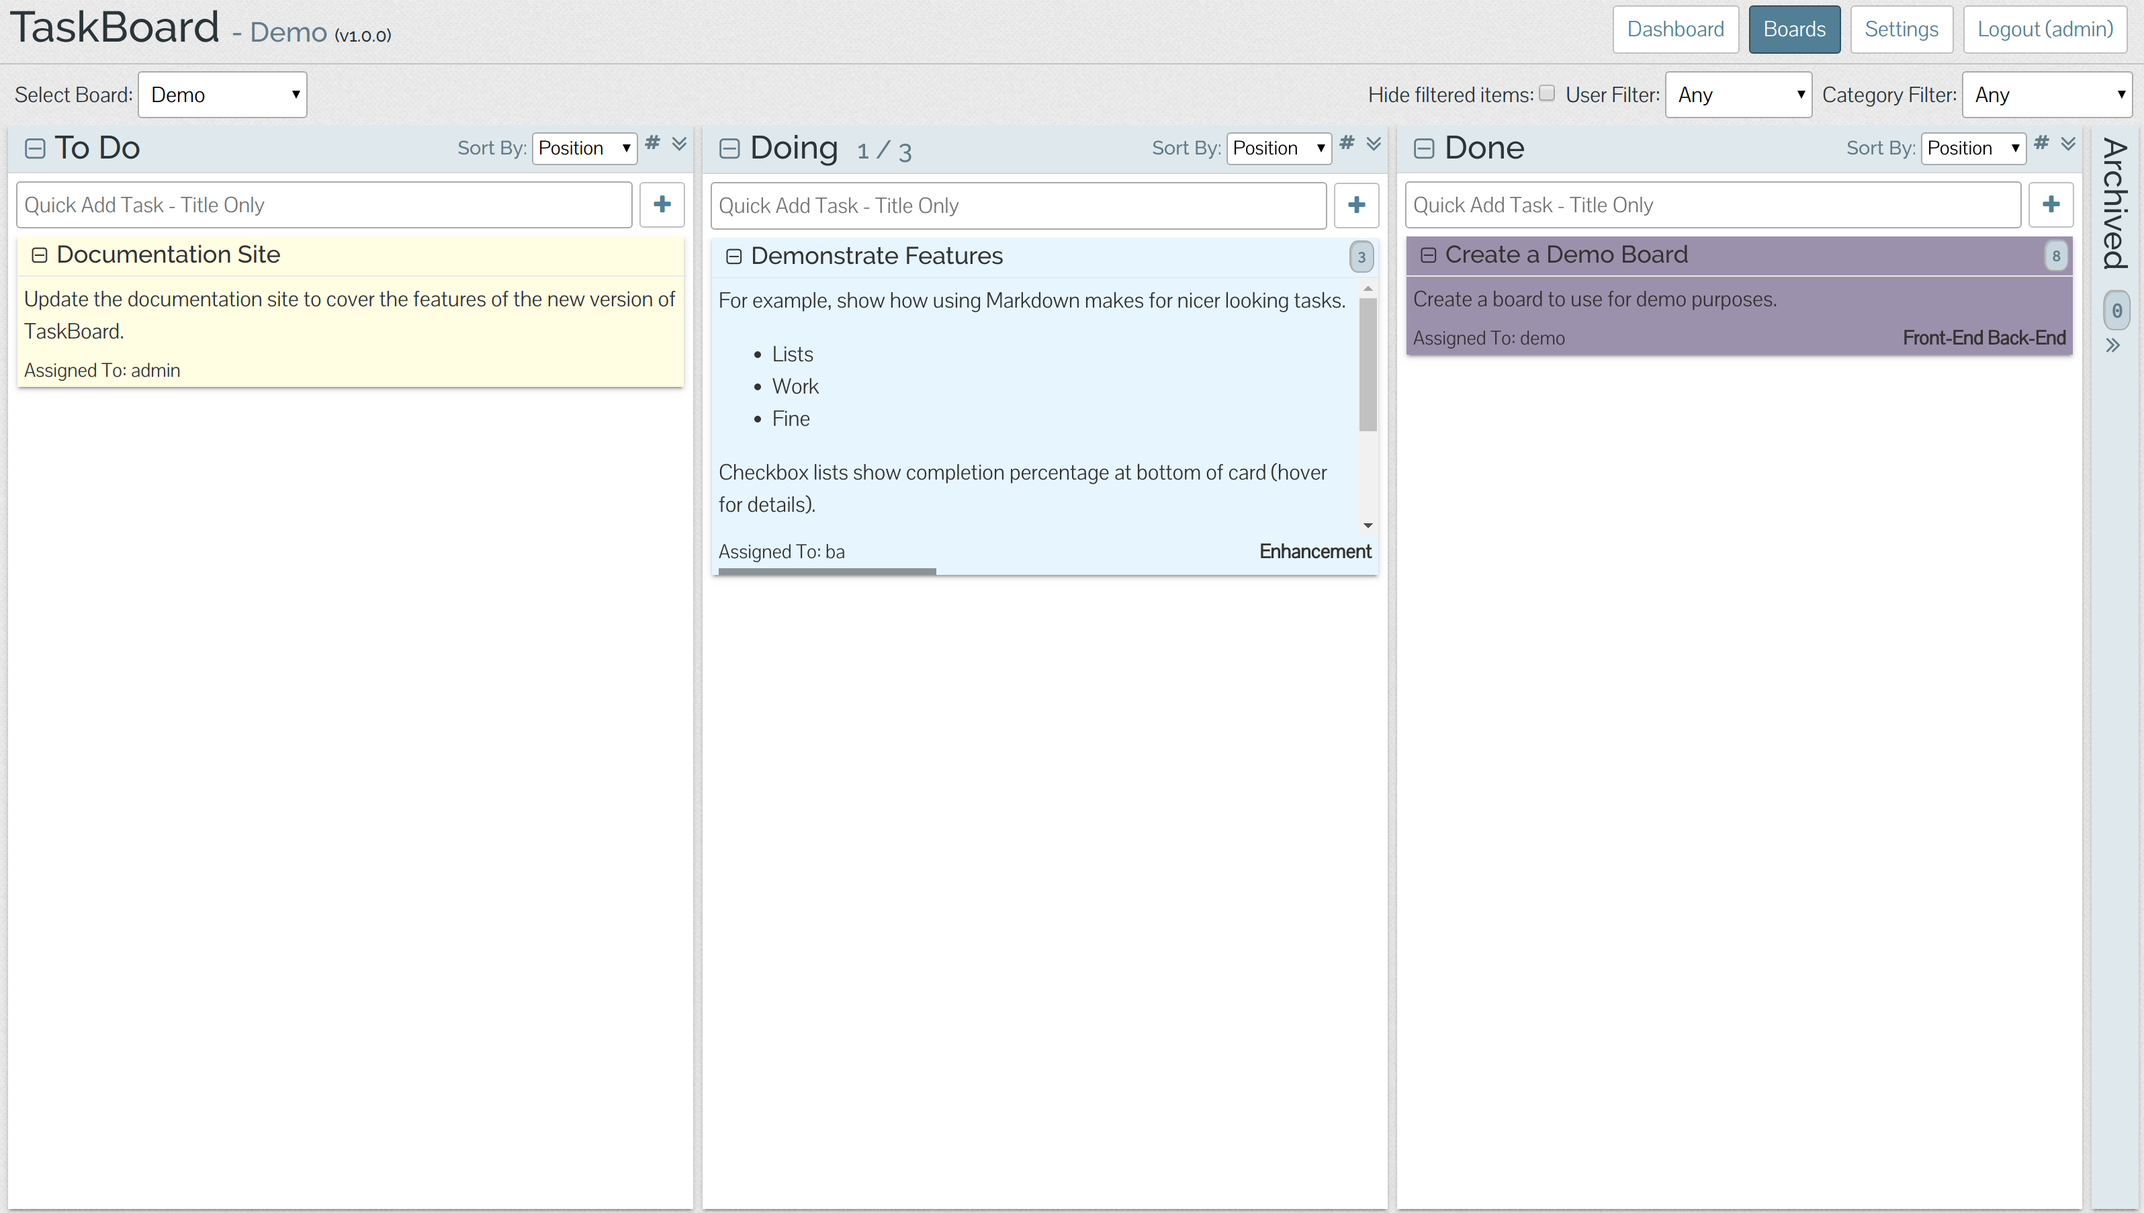
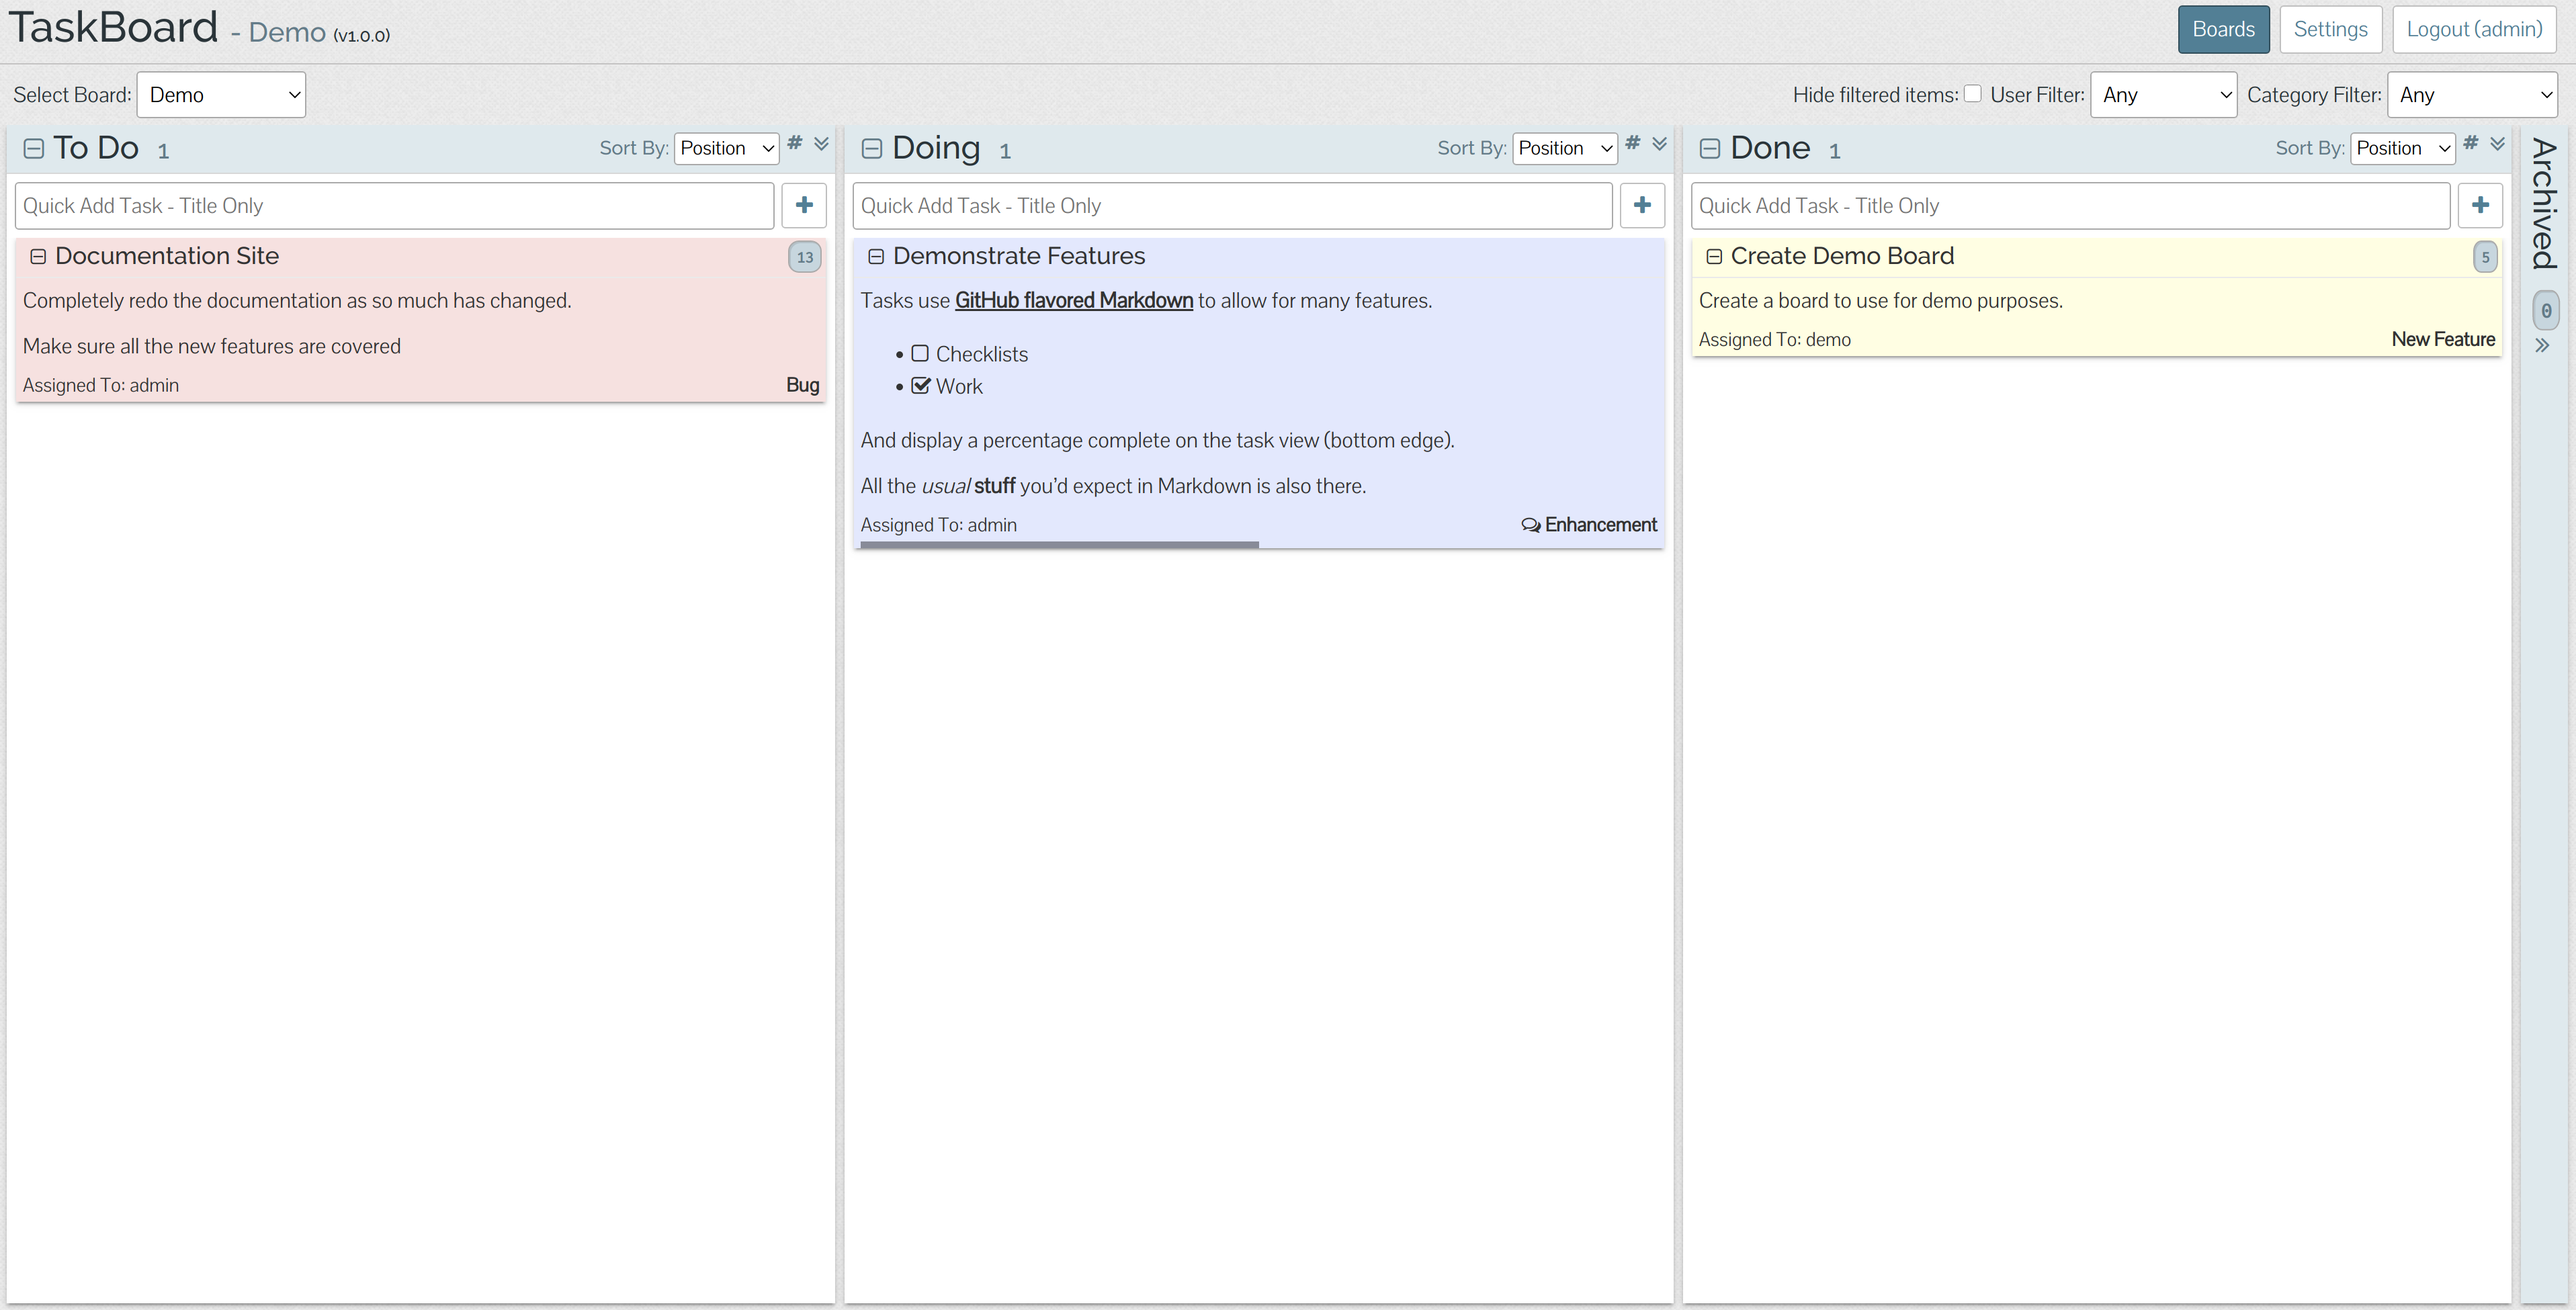
Update screenshots and minor fixes from demo creation

Changed region(s): [[0.0, 0.0, 1.0, 1.0]]

diff --git a/src/app/board/column/column.component.ts b/src/app/board/column/column.component.ts
@@ -669,8 +669,16 @@ export class ColumnDisplayComponent implements OnInit, OnDestroy {
   private updateTaskActivity(id: number) {
     this.viewTaskActivities = [];
 
+    if (this.activeUser.security_level > 2) {
+      return;
+    }
+
     this.boardService.getTaskActivity(id)
       .subscribe(response => {
+        if (response.data.length === 0) {
+          return;
+        }
+
         response.data[1].forEach((item: any) => {
           this.viewTaskActivities.push(
             new ActivitySimple(item.text, item.timestamp));
@@ -691,23 +699,24 @@ export class ColumnDisplayComponent implements OnInit, OnDestroy {
                           updatedTask.ownAttachment,
                           updatedTask.sharedUser,
                           updatedTask.sharedCategory);
+
+    task.html = updatedTask.html;
+    task.comments.forEach(comment => {
+      this.boardService.convertMarkdown(comment.text, this.markedCallback)
+        .then(data => { comment.html = data.html; });
+    });
+
     return task;
   }
 
   private replaceUpdatedTask(updatedTask: any) {
-    this.activeBoard.columns.forEach(column => {
-      if (+column.id !== +updatedTask.column_id) {
-        return;
-      }
+    const oldTask = this.activeBoard.columns
+      .find(column => +column.id === +updatedTask.column_id)
+      .tasks.find(task => +task.id === +updatedTask.id);
 
-      column.tasks.forEach(task => {
-        if (+task.id !== +updatedTask.id) {
-          return;
-        }
+    updatedTask.html = oldTask.html;
 
-        this.updateTaskComments(task, updatedTask.ownComment);
-      });
-    });
+    this.updateTaskComments(oldTask, updatedTask.ownComment);
   }
 
   private updateTaskComments(task: Task, newComments: any[]) {

diff --git a/src/app/board/task/task.component.ts b/src/app/board/task/task.component.ts
@@ -6,7 +6,6 @@ import {
   OnDestroy,
   OnInit,
   Output,
-  ChangeDetectorRef,
 } from '@angular/core';
 import { DomSanitizer } from '@angular/platform-browser';
 
@@ -62,8 +61,7 @@ export class TaskDisplayComponent implements OnInit, OnDestroy {
               public boardService: BoardService,
               public modal: ModalService,
               private notes: NotificationsService,
-              public stringsService: StringsService,
-              private cdref: ChangeDetectorRef) {
+              public stringsService: StringsService) {
     this.onUpdateBoards = new EventEmitter<any>();
     this.percentComplete = 0;
     this.subs = [];

diff --git a/src/app/board/board.service.ts b/src/app/board/board.service.ts
@@ -56,7 +56,7 @@ export class BoardService {
     retVal.html = callback(false, marked(markdown));
 
     if (doCount) {
-      retVal.counts = this.checkCounts;
+      retVal.counts = Object.assign({}, this.checkCounts);
     }
 
     return retVal;
